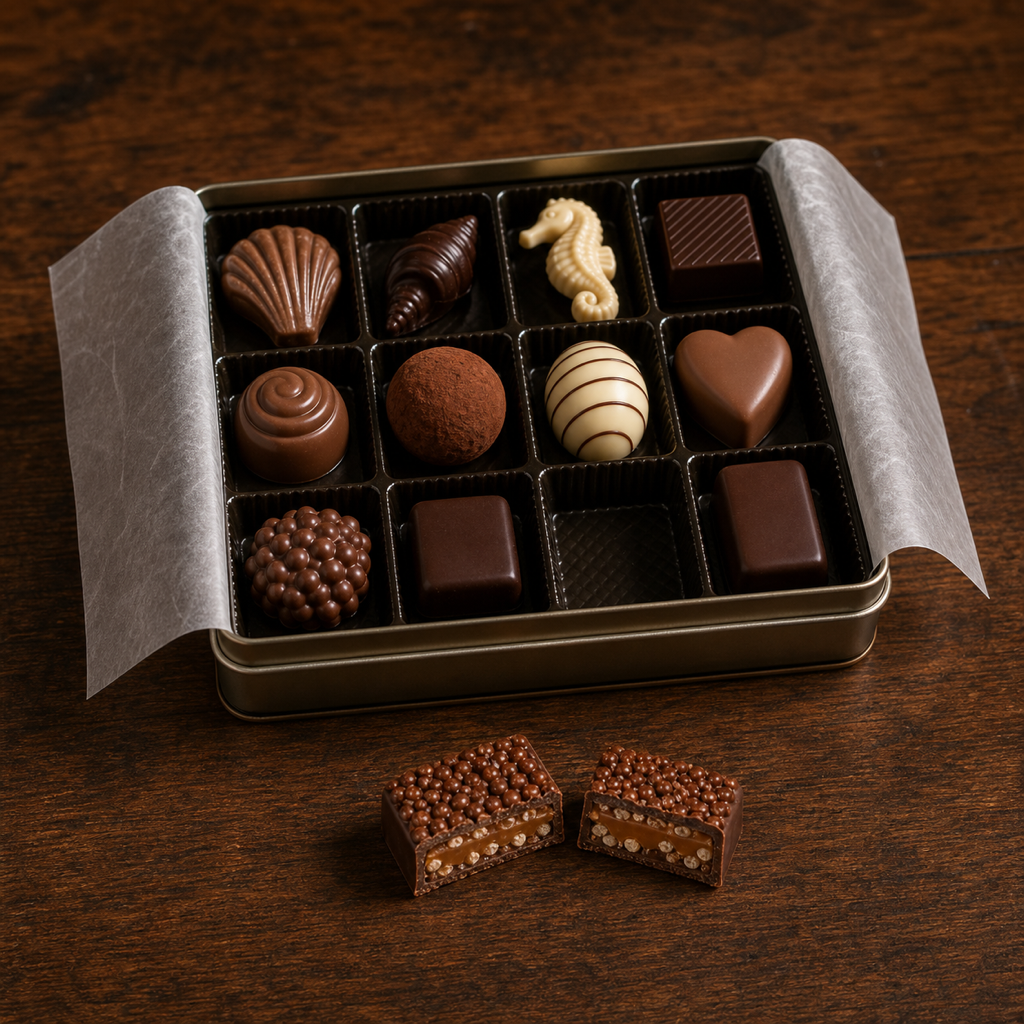
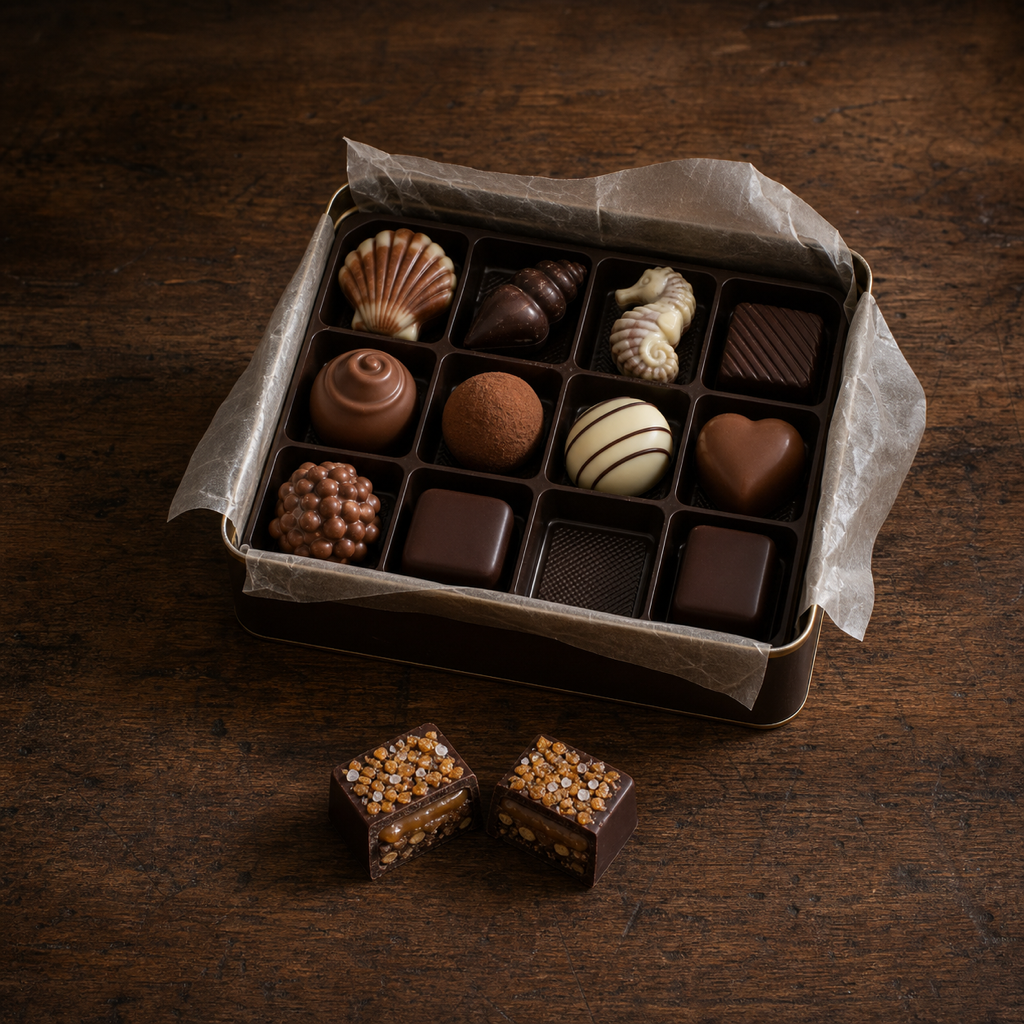
第四轮试吃后：橙酒块去纸托、跳跳糖余味不再说声音、85% 板换银锡纸图、t08 深壳带盐图

diff --git a/tools/gen_images.py b/tools/gen_images.py
@@ -18,7 +18,7 @@ STYLE = ("mouth-watering editorial food photography, rich, warm, slightly moody.
 
 SCENE = {
     "bar": "An 85% dark chocolate bar, thin and wide, divided into small rectangles, its paper sleeve (printed with a "
-           "simple illustration of cocoa beans and a cocoa plant, NO letters or numbers) pulled halfway off the short end and the thin foil folded back with crinkles catching the light. One rectangle has "
+           "simple illustration of cocoa beans and a cocoa plant, NO letters or numbers) pulled halfway off the short end and the thin SILVER foil (not gold) folded back with crinkles catching the light. One rectangle has "
            "been snapped off and lies beside the bar, snap edge toward the camera showing a fine dense grain, "
            "near-black brown with a restrained sheen and a faint grey fat bloom on the broken edge. A few crumbs.",
     "ball": "A small open paper bag of milk chocolate soft-centre balls, each in plain unprinted red foil twisted at "
@@ -28,7 +28,7 @@ SCENE = {
     "tin": "An open square tin of assorted chocolates, lid off, translucent tissue paper lifted back, a twelve-cell "
            "tray in which every piece is different: {tray_list}. Exactly ONE cell is empty: the cell of THIS piece. "
            "In front of the tin on the wood: THIS piece, taken out and broken in half, break edge toward the camera: "
-           "{this}.",
+           "{this}. If the piece is described as dark chocolate, its shell must be dark near-black brown, not milk; if salt crystals are described, coarse white salt grains must be visible on top.",
 }
 
 
